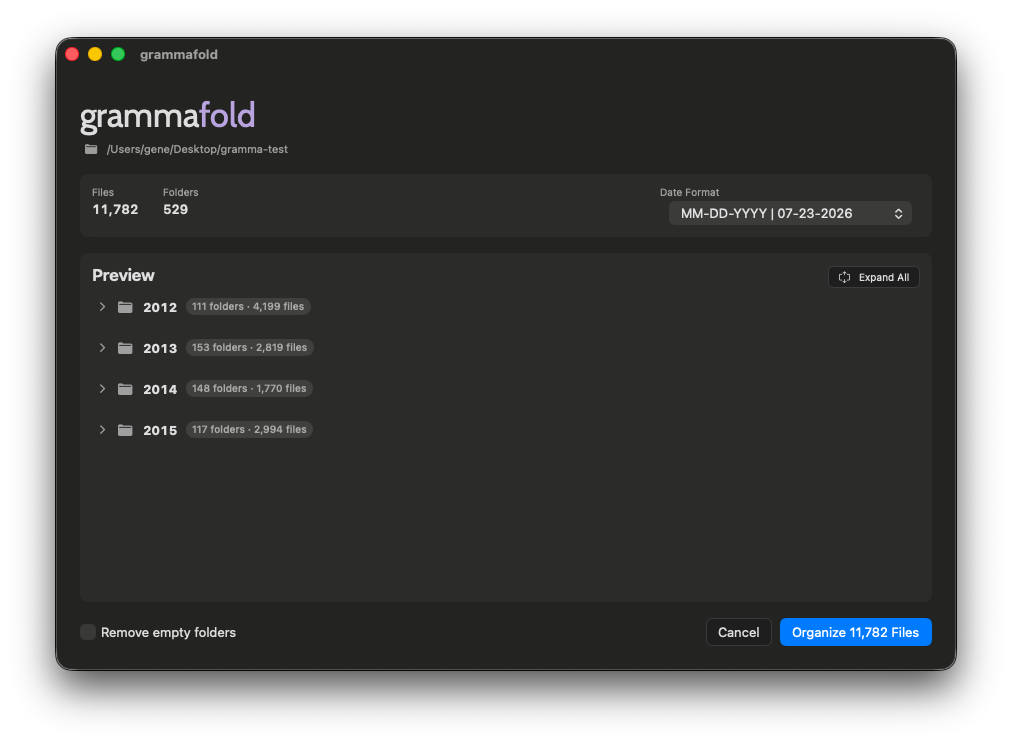
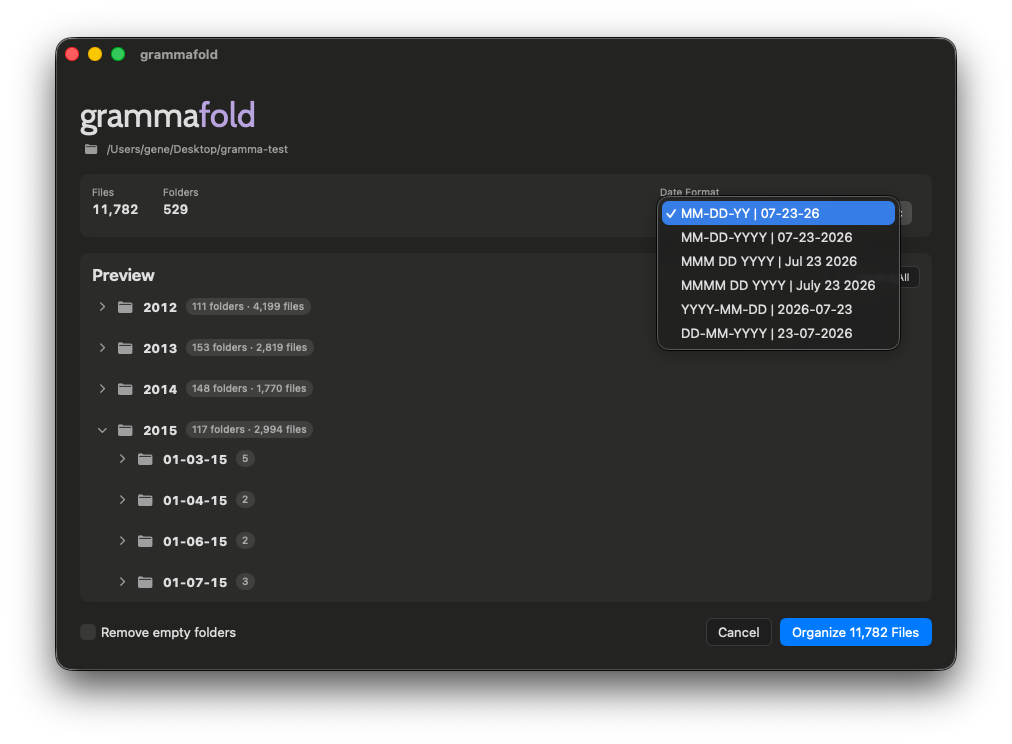
Update Grammafold Step 3 screenshot with date format picker.
Replace the preview image to show the date format dropdown in context.

diff --git a/gramma/grammafold/index.html b/gramma/grammafold/index.html
@@ -134,7 +134,7 @@
               <h3 class="workflow-shot__title">Preview and choose your date format</h3>
               <p>See exactly where every file will go. Pick the date style you prefer before organizing.</p>
             </div>
-            <img class="screenshot" src="assets/screenshots/03-preview.png" width="900" height="563" alt="Grámmafold preview showing files organized by year, ready to confirm">
+            <img class="screenshot" src="assets/screenshots/03-preview.png" width="1012" height="744" alt="Grámmafold preview with date format picker showing files organized by year">
           </div>
 
           <div class="workflow-row">
